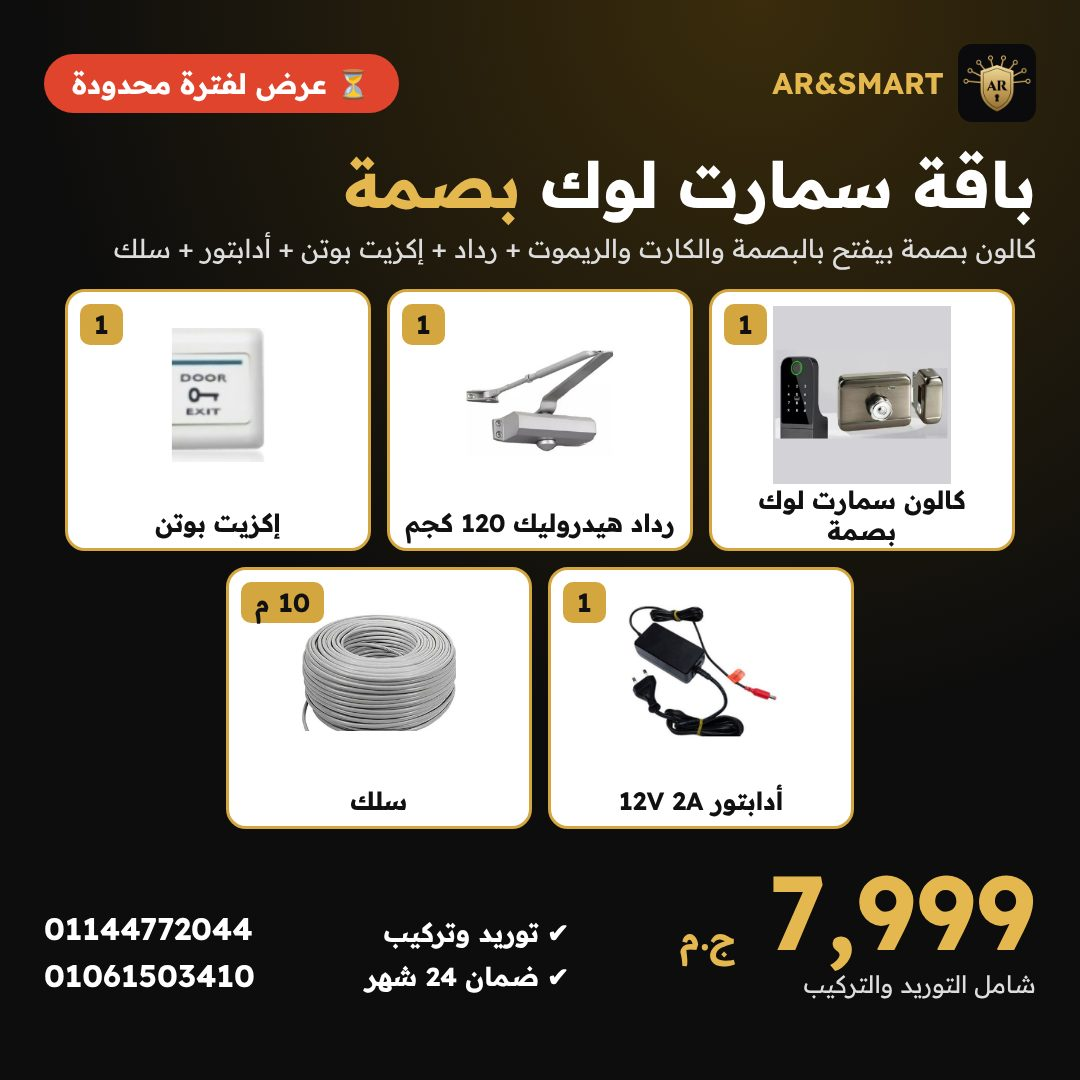
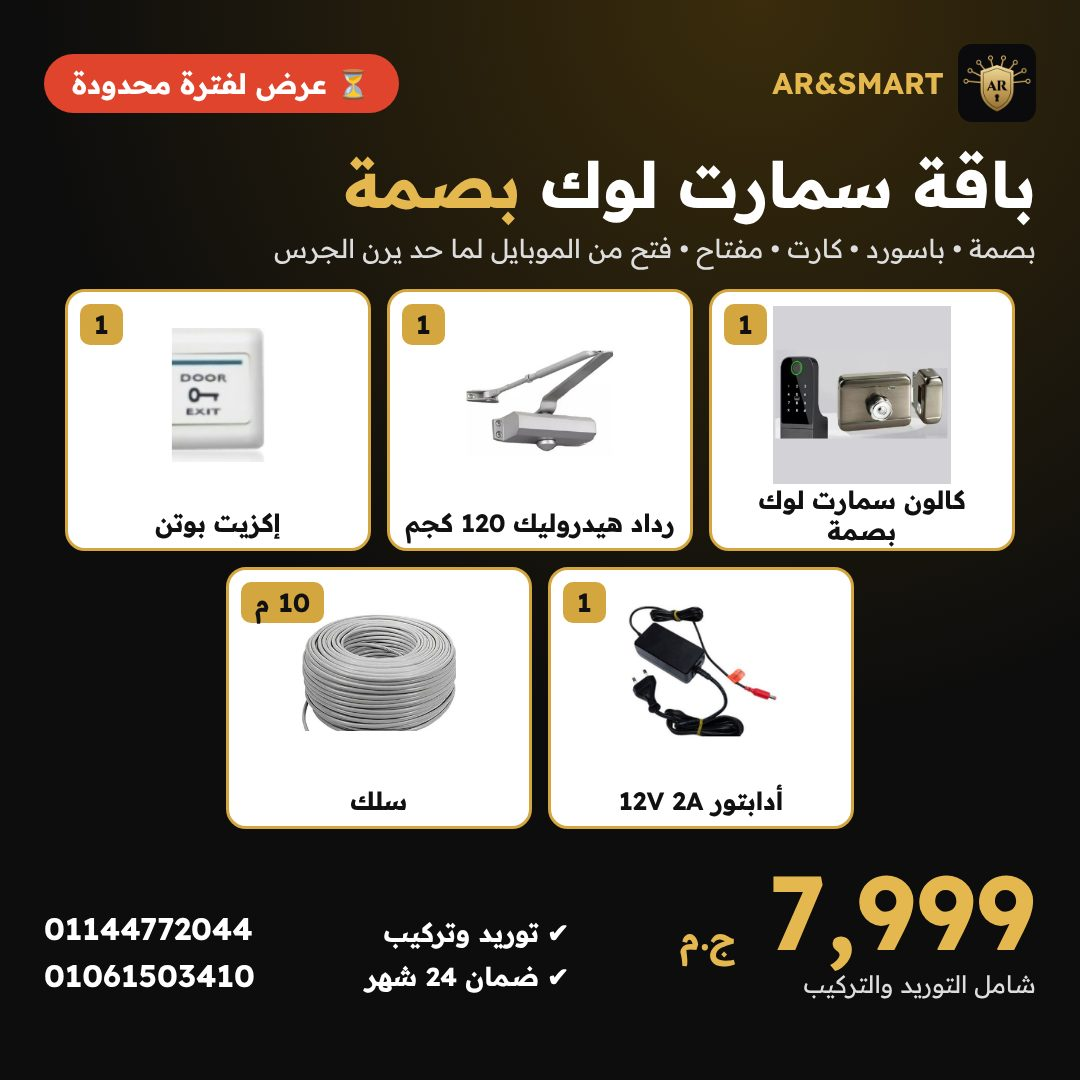
Fingerprint offer: unlock methods = fingerprint, code, card, key, app on doorbell; no remote
Claude-Session: https://claude.ai/code/session_01GpKL8qZh5GiWqevqLTUji4

Changed region(s): [[0.0917, 0.2139, 0.9472, 0.2444]]

diff --git a/index.html b/index.html
@@ -755,9 +755,9 @@ const OFFERS=[
   items:[["keypad","1","جهاز أكسيس كنترول كارت + كود"],["maglock","1","قفل مغناطيسي SIB"],["psu","1","باور سبلاي 12V 3.5A"],["closer-black","1","رداد هيدروليك أسود"],["exitbtn","1","إكزيت بوتن"],["tags2","40","تاج (شفرة) ID 125KHz"],["cable","10 م","سلك"]],
   shots:[],perks:["توريد وتركيب","ضمان 24 شهر","فتح بالكارت أو الكود"],note:"شامل التوريد والتركيب",
   price:5999},
- {id:"fp",tag:"عرض لفترة محدودة",title:"باقة سمارت لوك بصمة",sub:"كالون سمارت لوك بيفتح بالبصمة والكارت والريموت، مع رداد هيدروليك وإكزيت بوتن وأدابتور وسلك — كل اللي محتاجه لتأمين بابك في عرض واحد.",banner:"img/off/web-fp.jpg?v=1",
+ {id:"fp",tag:"عرض لفترة محدودة",title:"باقة سمارت لوك بصمة",sub:"كالون سمارت لوك بيفتح بالبصمة والباسورد والكارت والمفتاح، ومن الموبايل بالأبلكيشن لما حد يرن الجرس — مع رداد هيدروليك وإكزيت بوتن وأدابتور وسلك، كل اللي محتاجه لتأمين بابك في عرض واحد.",banner:"img/off/web-fp.jpg?v=2",
   items:[["fplock","1","كالون سمارت لوك بصمة"],["closer-silver","1","رداد هيدروليك 120 كجم"],["exitbtn","1","إكزيت بوتن"],["adapter","1","أدابتور 12V 2A"],["cable","10 م","سلك"]],
-  shots:[],perks:["توريد وتركيب","ضمان 24 شهر","فتح بالبصمة أو الكارت أو الريموت","العرض لفترة محدودة"],note:"شامل التوريد والتركيب",
+  shots:[],perks:["توريد وتركيب","ضمان 24 شهر","فتح من الموبايل لما حد يرن الجرس","العرض لفترة محدودة"],note:"شامل التوريد والتركيب",
   price:7999}
 ];
 const OFF_SHOTS=[["نهار","img/w/offer-day.jpg"],["ليل","img/w/offer-night.jpg"]];
